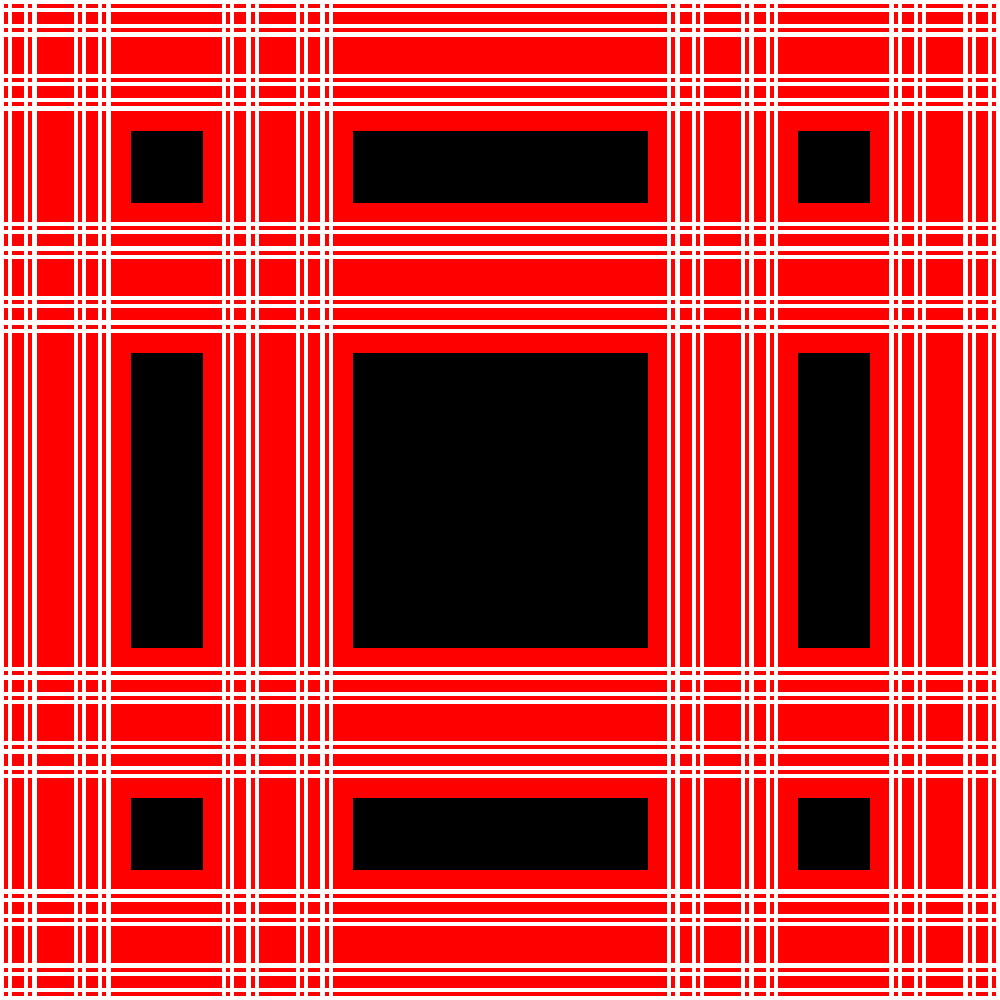
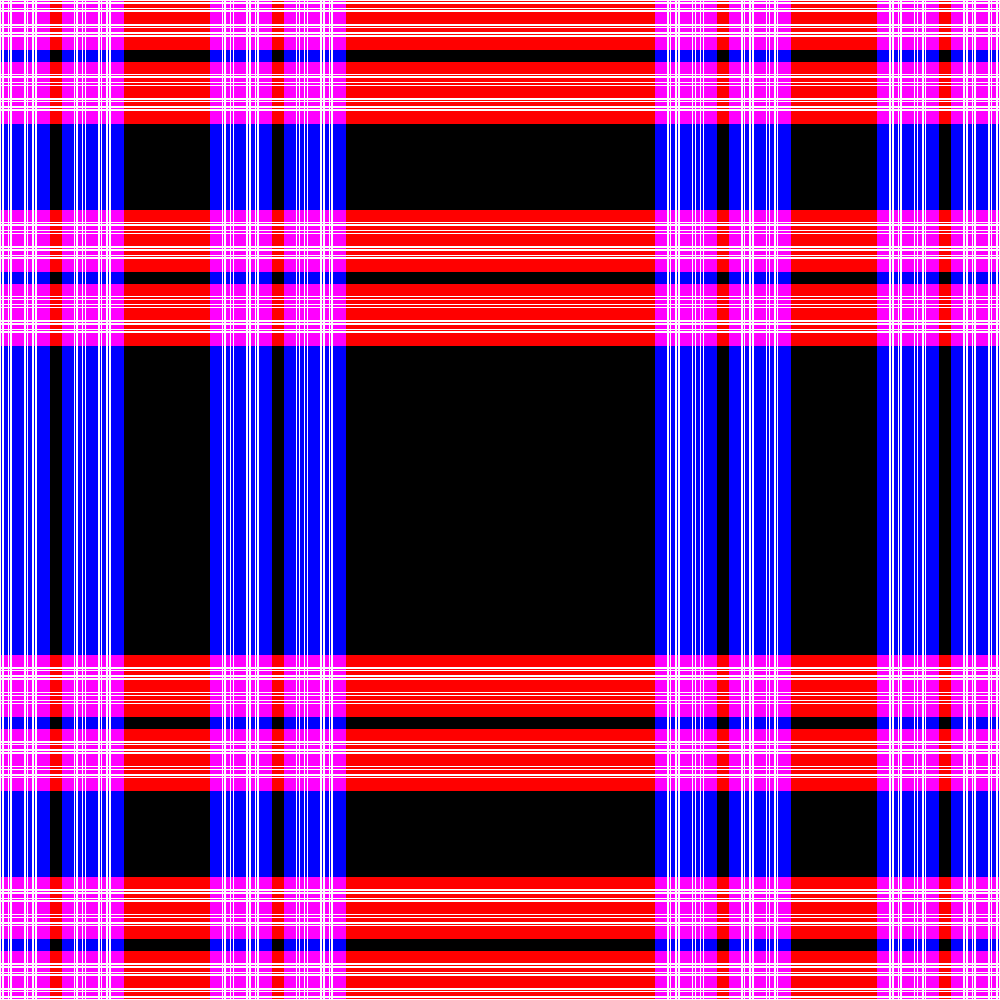
cleaned up some images and cleaned up the volume gifs to display the volume over the completed cantor string/lawn

diff --git a/src/Util/FractalImages.py b/src/Util/FractalImages.py
@@ -106,42 +106,45 @@ def CreatCantorLawnVolumeImage(resolution : tuple, tier : int, epsilon : float, 
     cLawn.save_cantorLawnVolumeImage(epsilon, filename)
     print("Saved Cantor Lawn Volume image.")
 
-def CreateCantorStringVolumeGIF(resolution : tuple, rowRange : tuple, tier : int, epsilon : float, filename : str) :
+def CreateCantorStringVolumeGIF(resolution : tuple, rowRange : tuple, tier : int, epsilon : float, filename : str) -> list :
     print("Create Cantor String Volume GIF Image epsilon:", epsilon,"and tier:", tier, "started.")
     images = []
 
     #initialize variables
     _xInt = (0, resolution[ResolutionType.Width])
-    cSet = CantorSet(_xInt, 0)
- 
-    prevImg = cSet.get_cantorStringVolumeImage(resolution, rowRange, epsilon)
+    c = CantorSet(_xInt, tier)
+    completed_img = c.get_cantorStringImage(resolution, rowRange)
+    prevImg = completed_img
 
     #repeat 0 a few times to slow down the beginning
     for i in range(3) :
-        images.append(prevImg)
+        images.append(completed_img)
 
     for i in range(1, tier + 1) :
         cSet = CantorSet(_xInt, i)
-        currImg = cSet.get_cantorStringVolumeImage(resolution, rowRange, epsilon)
+        currImg = cSet.get_cantorStringVolumeImage(resolution, rowRange, epsilon, completed_img.copy())
 
         #this is to get a smoother transition between tiers
         imgList = ImageMods.BlendImages(prevImg, currImg, 10)
         images.extend(imgList)
+        images.append(currImg)
 
         print(float(i / tier) * 100, "%")
         prevImg = currImg
-    
+        
     print("Created images, saving the GIF...")
     images[0].save(filename, save_all=True, append_images=images[1:], optimize=False, duration=40, loop=0)
     print("Saved the GIF!")
+    return images
 
 def CreateCantorLawnVolumeGIF(resolution : tuple, tier : int, epsilon : float, filename : str) :
     print("Create Cantor Lawn Volume GIF tier:", tier, "started.")
     images = []
     
     #initialize variables
-    c = CantorLawn(resolution, 0)
-    prevImg = c.get_cantorLawnVolumeImage(epsilon)
+    c = CantorLawn(resolution, tier)
+    completed_img = c.get_cantorLawnImage()
+    prevImg = completed_img
 
     #repeat 0 a few times to slow down the beginning
     for i in range(4) :
@@ -149,11 +152,12 @@ def CreateCantorLawnVolumeGIF(resolution : tuple, tier : int, epsilon : float, f
         
     for i in range(1, tier + 1) :
         c = CantorLawn(resolution, i)
-        currImg = c.get_cantorLawnVolumeImage(epsilon)
+        currImg = c.get_cantorLawnVolumeImage(epsilon, completed_img.copy())
 
         #this is to get a smoother transition between tiers
         imgList = ImageMods.BlendImages(prevImg, currImg, 10)
         images.extend(imgList)
+        images.append(currImg)
 
         print(float(i / tier) * 100, "%")
         prevImg = currImg

diff --git a/src/main.py b/src/main.py
@@ -9,27 +9,27 @@ if __name__ == "__main__":
     print("6: Cantor Lawn Volume")
     print("7: Cantor String Volume GIF")
     print("8: Cantor Lawn Volume GIF")
-
+   
     inp = input("Choose an image to create:\n")
     if inp.isnumeric() :
         mode = int(inp)
 
     if mode == 1 :
-        FractalImages.CreateCantorStringImage((1000,1000), (450,550), 5, "images/CantorString.png")
+        FractalImages.CreateCantorStringImage((1000,1000), (475,525), 6, "images/CantorString.png")
     elif mode == 2 :
-        FractalImages.CreateCantorLawnImage((1000,1000), 5, "images/CantorLawn.png")
+        FractalImages.CreateCantorLawnImage((1000,1000), 6, "images/CantorLawn.png")
     elif mode == 3 :
-        FractalImages.CreateCantorStringGIF((1000,1000), (450,550), 7, "images/CantorStringGIF.gif")
+        FractalImages.CreateCantorStringGIF((1000,1000), (475,525), 6, "images/CantorStringGIF.gif")
     elif mode == 4 :
-        FractalImages.CreateCantorLawnGIF((1000,1000), 7, "images/CantorLawnGIF.gif")
+        FractalImages.CreateCantorLawnGIF((1000,1000), 6, "images/CantorLawnGIF.gif")
     elif mode == 5 :
-        FractalImages.CreatCantorStringVolumeImage((1000,1000), (450,550), 5, 0.05, "images/CantorStringVolume.png")
+        FractalImages.CreatCantorStringVolumeImage((1000,1000), (475,525), 6, 0.0125, "images/CantorStringVolume.png")
     elif mode == 6 :
-        FractalImages.CreatCantorLawnVolumeImage((1000,1000), 5, 0.02, "images/CantorLawnVolume.png")
+        FractalImages.CreatCantorLawnVolumeImage((1000,1000), 6, 0.0125, "images/CantorLawnVolume.png")
     elif mode == 7 :
-        FractalImages.CreateCantorStringVolumeGIF((1000,1000), (450,550), 7, 0.05, "images/CantorStringVolumeGIF.gif")
+        FractalImages.CreateCantorStringVolumeGIF((1000,1000), (475,525), 6, 0.0125, "images/CantorStringVolumeGIF.gif")
     elif mode == 8 :
-        FractalImages.CreateCantorLawnVolumeGIF((1000,1000), 7, 0.02, "images/CantorLawnVolumeGIF.gif")
+        FractalImages.CreateCantorLawnVolumeGIF((1000,1000), 6, 0.0125, "images/CantorLawnVolumeGIF.gif")
     else:
         print("Invalid input.")
 

diff --git a/src/CantorLawn.py b/src/CantorLawn.py
@@ -21,7 +21,7 @@ class CantorLawn:
         """ Call this method to return the image of the current model. """
         return self._get_image(self._cantorLawnBitMap)
 
-    def get_cantorLawnVolumeImage(self, epsilon : float) -> Image :
+    def get_cantorLawnVolumeImage(self, epsilon : float, imgProvider : Image = None) -> Image :
         """ Call this method to get a PIL.Image of the inner tubular neighborhood of the volume at epsilon. """
         cString_X = self._cantorSet_X.get_cantorString()
         cString_Y = self._cantorSet_Y.get_cantorString()
@@ -29,21 +29,26 @@ class CantorLawn:
         cString_Eps_X = self._cantorSet_X.get_epsilonNeighborhoodLevel(epsilon)
         cString_Eps_Y = self._cantorSet_Y.get_epsilonNeighborhoodLevel(epsilon)
 
-        img = self.get_cantorLawnImage()
+        img = imgProvider
+        if img == None :
+            img = self.get_cantorLawnImage()
         pixels = img.load() # Create the pixel map
 
-        #color in the volume red
+        #color in the heights blue
         for y in range(self.resolution[ResolutionType.Height]) :
             if BinarySearch(cString_Y, y) != -1 :
                 for x in range(self.resolution[ResolutionType.Width]) :
                     if BinarySearch(cString_Eps_X, x) != -1 :
-                        pixels[x,y] = (255,0,0)
-                    
+                        pixels[x,y] = (0,0,255)
+
+        #color in the lengths red         
         for y in range(self.resolution[ResolutionType.Height]) :
             if BinarySearch(cString_Eps_Y, y) != -1 :
                 for x in range(self.resolution[ResolutionType.Width]) :
                     if BinarySearch(cString_X, x) != -1 :
-                        pixels[x,y] = (255,0,0)
+                        #add red to shade the squares counted twice deaper
+                        p = pixels[x,y]
+                        pixels[x,y] = (255,0,p[2])
         
         return img
     

diff --git a/src/CantorSet.py b/src/CantorSet.py
@@ -122,13 +122,15 @@ class CantorSet:
                         newList.append(c)
         return newList
 
-    def get_cantorStringVolumeImage(self, resolution : tuple, rowRange : tuple, epsilon : float) -> Image :
+    def get_cantorStringVolumeImage(self, resolution : tuple, rowRange : tuple, epsilon : float,  imgProvider : Image = None) -> Image :
         """ Call this method to save the volume of the current model. Resolution and rowRange will dictate how the 1D image
             is mapped onto a 2D plane, epsilon dictates the inner tubular neighborhood used for the volume.
         """
         cString_eps = self._get_epsilonNeighborhoodLevelString(self._cantorSet.inner_set(), epsilon)
 
-        img = self.get_cantorStringImage(resolution, rowRange)
+        img = imgProvider
+        if img == None : 
+            img = self.get_cantorStringImage(resolution, rowRange)
         pixels = img.load() # Create the pixel map
 
         #color in the volume red

diff --git a/src/Util/ImageMods.py b/src/Util/ImageMods.py
@@ -13,11 +13,9 @@ def ReverseImage(originalFileName : str, newFileName : str) :
 def BlendImages(image1 : Image, image2 : Image, steps : int) -> list :
     """ Call this method to blend the 2 images with the specified step size """
     newList = []
-    newList.append(image1)
     #blend over the images with the specified step size
     for x in range(steps) :
         scale = (x + 1) / steps
         img = Image.blend(image1, image2, scale)
         newList.append(img)
-    newList.append(image2)
     return newList
